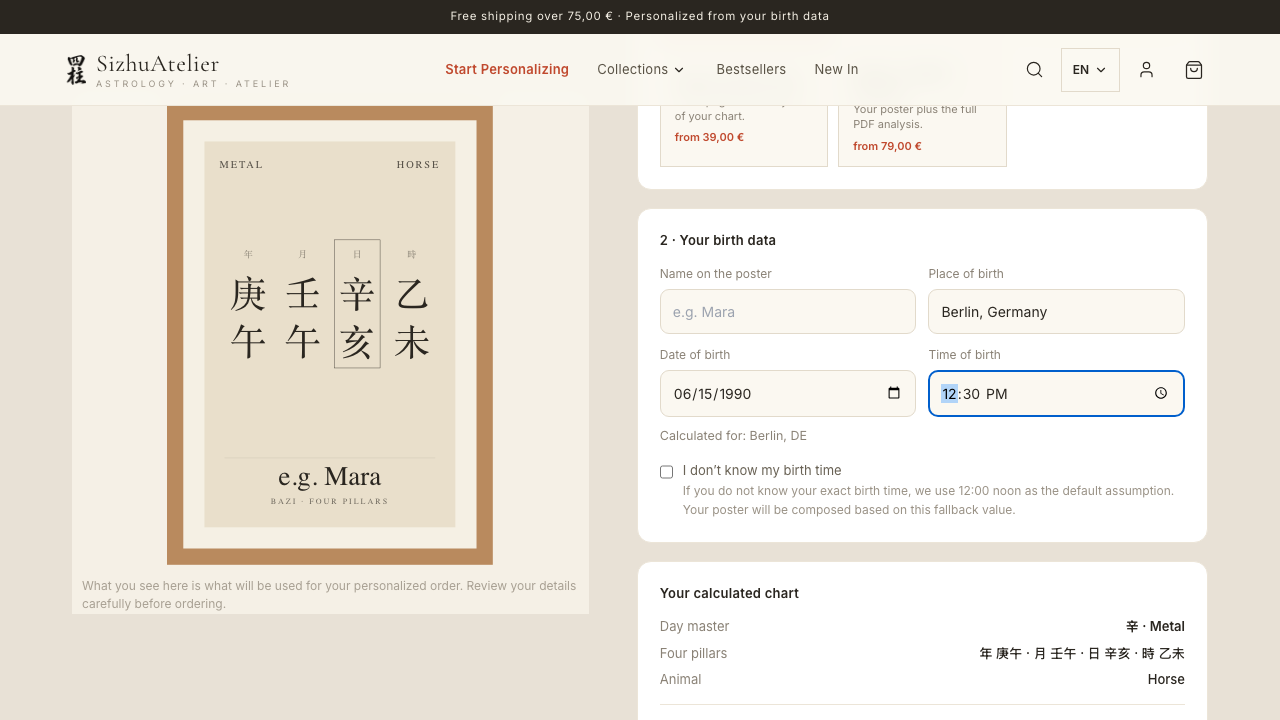
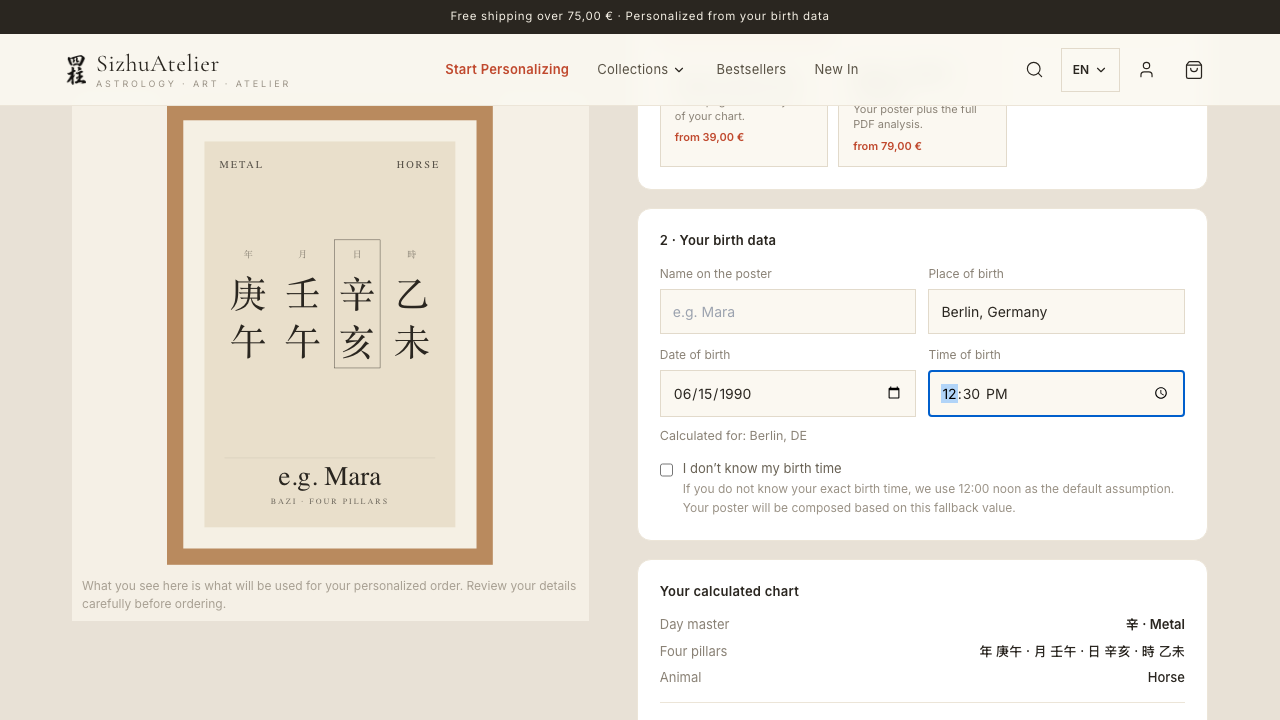
feat(personalize): eckige Inputs, Geburtszeit-Toggle je Person, Scrollbalken weg, Template-Beweis — Operator-Batch #6
- Eingabefelder eckig: globale CSS-Regel um input/select/textarea erweitert
- „Geburtszeit unbekannt" JE PERSON (Paar): geteilter Toggle aufgetrennt in
  unknownTimeA/B — eigene Checkbox + Noon-Hint unter jedem Personen-Block
  (testids unknown-time-a/b); Gate, Validierung, Summary, Partner-Review und
  Metadaten laufen je Person; Tests von Checkbox-Index auf testids gehärtet
- Poster-Vorschau ohne Scrollbalken: Container ohne max-height/overflow
  (SVG bleibt gedeckelt, Platz unter dem Poster für spätere Mockups);
  mobile-config-Test als Gegen-Assertion fortgeschrieben
- Design-Template-Beweis: zweites Einzel-Design ink-minimal (Datei + eine
  Registry-Zeile → Picker/Vorschau/Druck/TÜV automatisch). Fund behoben:
  Swatch-Mini-Vorschauen trugen dieselbe testid wie die Hauptvorschau —
  PosterSvg testId-Prop, Swatches nutzen design-swatch-preview-<id>

Beweise: node 81/81 · jsdom 624/624 · Playwright 8/8 mit Live-FuFirE

Changed region(s): [[0.5, 0.6417, 0.9062, 0.7333], [0.75, 0.8556, 0.9375, 0.9472], [0.5, 0.7944, 0.625, 0.9167]]

diff --git a/src/pages/Personalize.tsx b/src/pages/Personalize.tsx
@@ -53,7 +53,10 @@ export default function Personalize() {
   const [typeId, setTypeId] = useState<ProductTypeId>(initialType)
   const [a, setA] = useState<Person>(emptyPerson)
   const [b, setB] = useState<Person>(emptyPerson)
-  const [unknownTime, setUnknownTime] = useState(false)
+  // Operator 2026-07-14: „Geburtszeit unbekannt" ist JE PERSON einstellbar —
+  // beim Paar-Poster kennt vielleicht nur einer seine Zeit nicht.
+  const [unknownTimeA, setUnknownTimeA] = useState(false)
+  const [unknownTimeB, setUnknownTimeB] = useState(false)
   const [posterLang, setPosterLang] = useState<Lang>(lang)
   const [frameHex, setFrameHex] = useState(frames[0].hex)
   const [bgHex, setBgHex] = useState(backgrounds[0].hex)
@@ -101,9 +104,9 @@ export default function Personalize() {
   // erst, wenn Datum + Zeit (oder Zeit-unbekannt-Fallback) + AUFGELÖSTER Ort
   // vorliegen. Bis dahin zeigt das Poster ehrliche Striche — nie einen
   // Platzhalter, der wie eine echte Berechnung aussieht.
-  const btA = birthTimeMeta(a.time, unknownTime)
-  const baziInput = a.date && (unknownTime || a.time) && resolvedPlace
-    ? { date: a.date, time: btA.time, place: resolvedPlace, birthTimeUnknown: unknownTime }
+  const btA = birthTimeMeta(a.time, unknownTimeA)
+  const baziInput = a.date && (unknownTimeA || a.time) && resolvedPlace
+    ? { date: a.date, time: btA.time, place: resolvedPlace, birthTimeUnknown: unknownTimeA }
     : null
   // Birth-Chart-Poster (Operator 2026-07-14) = WESTLICHES Geburtshoroskop
   // über /api/western (FuFirE Swiss Ephemeris) — eigener Datenpfad + Design.
@@ -111,9 +114,9 @@ export default function Personalize() {
   const { chart, status: chartStatus } = useBaziChart(def.couple || isWestern ? null : baziInput)
   const { western, status: westernStatus } = useWesternChart(isWestern ? baziInput : null)
   // Paar-Poster: beide Personen vollständig → EINE /api/match-Berechnung.
-  const btB = birthTimeMeta(b.time, unknownTime)
-  const baziInputB = def.couple && b.date && (unknownTime || b.time) && placeB.place
-    ? { date: b.date, time: btB.time, place: placeB.place, birthTimeUnknown: unknownTime }
+  const btB = birthTimeMeta(b.time, unknownTimeB)
+  const baziInputB = def.couple && b.date && (unknownTimeB || b.time) && placeB.place
+    ? { date: b.date, time: btB.time, place: placeB.place, birthTimeUnknown: unknownTimeB }
     : null
   const { pair, status: pairStatus } = usePairChart(def.couple ? baziInput : null, baziInputB)
   const activeStatus = def.couple ? pairStatus : isWestern ? westernStatus : chartStatus
@@ -178,10 +181,10 @@ export default function Personalize() {
   const previewData = (def.couple ? livePairPoster : isWestern ? liveWesternPoster : livePoster) as PosterData
 
   /* ---- validation (REQ-009/010/016) ---- */
-  const personValid = (p: Person) => p.name.trim() !== '' && p.date !== '' && p.place.trim() !== '' && (unknownTime || p.time !== '')
-  const errA = { name: a.name.trim() === '', date: a.date === '', place: a.place.trim() === '', time: !unknownTime && a.time === '' }
-  const errB = { name: b.name.trim() === '', date: b.date === '', place: b.place.trim() === '', time: !unknownTime && b.time === '' }
-  const valid = personValid(a) && (!def.couple || personValid(b))
+  const personValid = (p: Person, unknown: boolean) => p.name.trim() !== '' && p.date !== '' && p.place.trim() !== '' && (unknown || p.time !== '')
+  const errA = { name: a.name.trim() === '', date: a.date === '', place: a.place.trim() === '', time: !unknownTimeA && a.time === '' }
+  const errB = { name: b.name.trim() === '', date: b.date === '', place: b.place.trim() === '', time: !unknownTimeB && b.time === '' }
+  const valid = personValid(a, unknownTimeA) && (!def.couple || personValid(b, unknownTimeB))
 
   const posterLangLabel = posterLang
   const designLabel = def.poster ? `${t(`options.backgrounds.${bgHex}`)} · ${t(`options.frames.${frameHex}`)}` : '—'
@@ -343,29 +346,36 @@ export default function Personalize() {
           {/* Step 2 — birth data */}
           <div id="personalize-birth" style={cardStyle}>
             <div style={headingStyle}>{def.couple ? t('personalize.birthHeadingA') : t('personalize.birthHeading')}</div>
-            <PersonFields person={a} setPerson={setA} unknownTime={unknownTime} err={errA} showErrors={showErrors} t={t} primary onCommitPlace={placeA.resolve} />
+            <PersonFields person={a} setPerson={setA} unknownTime={unknownTimeA} err={errA} showErrors={showErrors} t={t} primary onCommitPlace={placeA.resolve} />
             {/* Orts-Auflösungs-Status (Exaktheits-Transparenz): der Käufer sieht
                 IMMER, für welchen aufgelösten Ort gerechnet wird — nichts wird
                 still angenommen. Mehrdeutig → Kandidaten; nicht gefunden →
                 Nachbarort-Hinweis (astronomisch identisch). */}
             <PlaceResolutionStatus status={placeA.status} place={placeA.place} candidates={placeA.candidates} onPick={pickCandidateA} t={t} testPrefix="place" />
+            <label style={{ display: 'flex', alignItems: 'flex-start', gap: 10, marginTop: 14, cursor: 'pointer', fontSize: 13, color: C.textMuted }}>
+              <input data-testid="unknown-time-a" type="checkbox" checked={unknownTimeA} onChange={(e) => setUnknownTimeA(e.target.checked)} style={{ marginTop: 3, width: 16, height: 16, accentColor: C.accent }} />
+              <span>{t('personalize.unknownTime')}<br /><span style={{ fontSize: 12, color: C.textMuted3 }}>{t('personalize.unknownTimeHint')}</span></span>
+            </label>
+            {unknownTimeA && (
+              <div data-testid="noon-fallback-field-hint" role="note" style={{ marginTop: 12, background: C.accentSoftBg, color: C.accent, padding: '10px 12px', fontSize: 12.5, lineHeight: 1.5 }}>
+                {t('noonFallback.fieldHint')}
+              </div>
+            )}
             {def.couple && (
               <>
                 <div style={{ ...headingStyle, marginTop: 22 }}>{t('personalize.birthHeadingB')}</div>
-                <PersonFields person={b} setPerson={setB} unknownTime={unknownTime} err={errB} showErrors={showErrors} t={t} onCommitPlace={placeB.resolve} />
+                <PersonFields person={b} setPerson={setB} unknownTime={unknownTimeB} err={errB} showErrors={showErrors} t={t} onCommitPlace={placeB.resolve} />
                 <PlaceResolutionStatus status={placeB.status} place={placeB.place} candidates={placeB.candidates} onPick={pickCandidateB} t={t} testPrefix="place-b" />
-              </>
-            )}
-            <label style={{ display: 'flex', alignItems: 'flex-start', gap: 10, marginTop: 16, cursor: 'pointer', fontSize: 13, color: C.textMuted }}>
-              <input type="checkbox" checked={unknownTime} onChange={(e) => setUnknownTime(e.target.checked)} style={{ marginTop: 3, width: 16, height: 16, accentColor: C.accent }} />
+            <label style={{ display: 'flex', alignItems: 'flex-start', gap: 10, marginTop: 14, cursor: 'pointer', fontSize: 13, color: C.textMuted }}>
+              <input data-testid="unknown-time-b" type="checkbox" checked={unknownTimeB} onChange={(e) => setUnknownTimeB(e.target.checked)} style={{ marginTop: 3, width: 16, height: 16, accentColor: C.accent }} />
               <span>{t('personalize.unknownTime')}<br /><span style={{ fontSize: 12, color: C.textMuted3 }}>{t('personalize.unknownTimeHint')}</span></span>
             </label>
-            {/* REQ-018 AK-2 — disclosed noon fallback at the birth-time field (no
-                silent default). Shown only when the buyer marks the time unknown. */}
-            {unknownTime && (
-              <div data-testid="noon-fallback-field-hint" role="note" style={{ marginTop: 12, background: C.accentSoftBg, color: C.accent, borderRadius: 10, padding: '10px 12px', fontSize: 12.5, lineHeight: 1.5 }}>
+            {unknownTimeB && (
+              <div data-testid="noon-fallback-field-hint-b" role="note" style={{ marginTop: 12, background: C.accentSoftBg, color: C.accent, padding: '10px 12px', fontSize: 12.5, lineHeight: 1.5 }}>
                 {t('noonFallback.fieldHint')}
               </div>
+            )}
+              </>
             )}
           </div>
 
@@ -430,14 +440,14 @@ export default function Personalize() {
                   // dayMaster-Anzeige nutzt die GLYPHE aus pillars[2].stem —
                   // die API liefert relation.dayMasterA/B als Pinyin (Fund
                   // 2026-07-14: „Xin"/„Bing"), Poster + Review zeigen Glyphen.
-                  { key: 'a', person: a, bt: btA, place: resolvedPlace, chart: pair.a },
-                  { key: 'b', person: b, bt: btB, place: placeB.place, chart: pair.b },
-                ].map(({ key, person, bt, place, chart: pc }) => (
+                  { key: 'a', person: a, bt: btA, unknown: unknownTimeA, place: resolvedPlace, chart: pair.a },
+                  { key: 'b', person: b, bt: btB, unknown: unknownTimeB, place: placeB.place, chart: pair.b },
+                ].map(({ key, person, bt, unknown, place, chart: pc }) => (
                   <div key={key} data-testid={`partner-review-${key}`} style={{ border: `1px solid ${C.border}`, background: C.surfaceWarm, padding: 14 }}>
                     <div style={{ fontFamily: FONT_SERIF, fontSize: 17, color: C.ink, marginBottom: 8 }}>{person.name || '—'}</div>
                     <dl style={{ margin: 0, display: 'grid', gridTemplateColumns: 'auto 1fr', rowGap: 5, columnGap: 12, fontSize: 12.5 }}>
                       <SumRow label={t('configurator.date')} value={person.date || '—'} />
-                      <SumRow label={t('configurator.time')} value={unknownTime ? t('personalize.timeUnknown') : bt.timeDisplay || '—'} />
+                      <SumRow label={t('configurator.time')} value={unknown ? t('personalize.timeUnknown') : bt.timeDisplay || '—'} />
                       <SumRow label={t('configurator.place')} value={place ? `${place.resolvedName}, ${place.countryCode}` : person.place || '—'} />
                       <SumRow label={t('personalize.review.dayMaster')} value={`${pc.pillars[2]?.stem ?? '—'} · ${localizeElement(stemElement(pc.pillars[2]?.stem ?? ''), lang)}`} strong />
                       <SumRow label={t('personalize.review.animal')} value={localizeAnimal(pc.animal, lang)} />
@@ -517,7 +527,8 @@ export default function Personalize() {
                     const sel = d.id === designId
                     return (
                       <button key={d.id} data-testid="design-swatch" data-design={d.id} onClick={() => setDesignId(d.id)} style={{ position: 'relative', width: 84, border: `1px solid ${C.borderInput}`, background: C.surfaceInput, borderRadius: 10, padding: 6, cursor: 'pointer', fontFamily: FONT_SANS, fontSize: 11, color: C.ink }}>
-                        <PosterSvg data={previewData} designId={d.id} />
+                        {/* Swatch-Mini-Vorschau mit EIGENER testid — die Hauptvorschau (poster-svg-preview) bleibt eindeutig. */}
+                        <PosterSvg data={previewData} designId={d.id} testId={`design-swatch-preview-${d.id}`} />
                         <div style={{ marginTop: 4 }}>{d.name}</div>
                         {sel && <span style={{ position: 'absolute', inset: -2, border: `2px solid ${C.accent}`, borderRadius: 12, pointerEvents: 'none' }} />}
                       </button>
@@ -581,9 +592,9 @@ export default function Personalize() {
               <SumRow label={t('personalize.sumType')} value={t(`personalize.types.${typeId}.name`)} />
               <SumRow label={t('configurator.name')} value={a.name || '—'} />
               {def.couple && <SumRow label={t('personalize.partnerName')} value={b.name || '—'} />}
-              {def.couple && <SumRow label={t('personalize.partnerData')} value={`${b.date || '—'} · ${unknownTime ? t('personalize.timeUnknown') : b.time || '—'} · ${b.place || '—'}`} />}
+              {def.couple && <SumRow label={t('personalize.partnerData')} value={`${b.date || '—'} · ${unknownTimeB ? t('personalize.timeUnknown') : b.time || '—'} · ${b.place || '—'}`} />}
               <SumRow label={t('configurator.date')} value={a.date || '—'} />
-              <SumRow label={t('configurator.time')} value={unknownTime ? t('personalize.timeUnknown') : a.time || '—'} />
+              <SumRow label={t('configurator.time')} value={unknownTimeA ? t('personalize.timeUnknown') : a.time || '—'} />
               <SumRow label={t('configurator.place')} value={a.place || '—'} />
               <SumRow label={t('personalize.sumLang')} value={posterLangLabel} />
               {def.poster && <SumRow label={t('personalize.sumDesign')} value={designLabel} />}
@@ -591,7 +602,7 @@ export default function Personalize() {
               {COMMERCE_ENABLED && <SumRow label={t('personalize.sumPrice')} value={money(price)} strong />}
             </dl>
             {/* REQ-018 AK-3 — disclosed noon fallback in the personalization summary. */}
-            {unknownTime && (
+            {(unknownTimeA || (def.couple && unknownTimeB)) && (
               <div data-testid="noon-fallback-summary-notice" role="note" style={{ marginTop: 12, color: C.accent, fontSize: 12.5, lineHeight: 1.5 }}>
                 {t('noonFallback.summaryNotice')}
               </div>

diff --git a/tests/unit/delta-personalize-mobile-config.test.tsx b/tests/unit/delta-personalize-mobile-config.test.tsx
@@ -32,7 +32,6 @@ import { readFileSync } from 'node:fs'
 import { join } from 'node:path'
 import { render, screen, fireEvent, within } from '@testing-library/react'
 import { MemoryRouter } from 'react-router'
-import { readFileSync } from 'node:fs'
 import path from 'node:path'
 import { I18nProvider } from '../../src/i18n/I18nProvider'
 import { ShopStoreProvider } from '../../src/store/ShopStore'
@@ -91,7 +90,10 @@ describe('REQ-012 / AT-012-2 — preview carries a sticky + max-height rule', ()
     const rule = css.match(/\.personalize-preview\s*\{[^}]*\}/)?.[0] ?? ''
     expect(rule, '.personalize-preview rule exists in shipped index.css').not.toBe('')
     expect(rule).toMatch(/position:\s*sticky/i)
-    expect(rule).toMatch(/max-height:/i)
+    // Operator 2026-07-14: KEIN Scrollbalken mehr — der Container darf weder
+    // max-height noch overflow:auto tragen (das SVG selbst ist gedeckelt).
+    expect(rule).not.toMatch(/max-height:/i)
+    expect(rule).not.toMatch(/overflow:\s*auto/i)
   })
 
   it('AT-012-2 (source) — Personalize source declares the sticky + max-h contract', () => {

diff --git a/tests/unit/noon-fallback-render.test.tsx b/tests/unit/noon-fallback-render.test.tsx
@@ -53,7 +53,7 @@ describe('REQ-018 / AT-018-2 — noon-fallback disclosure renders at the birth-t
       expect(screen.queryByTestId('noon-fallback-field-hint')).toBeNull()
 
       // First checkbox on the page is the "I don't know my birth time" toggle.
-      const checkbox = screen.getAllByRole('checkbox')[0]
+      const checkbox = screen.getByTestId('unknown-time-a')
       fireEvent.click(checkbox)
 
       const hint = screen.getByTestId('noon-fallback-field-hint')
@@ -73,7 +73,7 @@ describe('REQ-018 / AT-018-3 — noon-fallback disclosure renders in the summary
       localStorage.setItem('sizhu_lang', lang)
       render(<Personalize />, { wrapper: Providers })
 
-      fireEvent.click(screen.getAllByRole('checkbox')[0])
+      fireEvent.click(screen.getByTestId('unknown-time-a'))
 
       const notice = screen.getByTestId('noon-fallback-summary-notice')
       expect(notice).toBeInTheDocument()

diff --git a/tests/unit/personalization-passthrough.test.tsx b/tests/unit/personalization-passthrough.test.tsx
@@ -337,9 +337,11 @@ describe('REQ-004 / AT-004-1 (couple) — person B noon-fallback provenance reac
     await screen.findByTestId('place-resolved-note')
     await screen.findByTestId('place-b-resolved-note')
 
-    // Mark the (shared) birth-time-unknown toggle → both charts take the disclosed
-    // noon fallback. The first checkbox is the unknown-time toggle.
-    fireEvent.click(screen.getAllByRole('checkbox')[0])
+    // Operator 2026-07-14: „Geburtszeit unbekannt" ist JE PERSON einstellbar —
+    // beide Toggles setzen, damit beide Charts den offengelegten Noon-Fallback
+    // nehmen (stabile testids statt Checkbox-Index).
+    fireEvent.click(screen.getByTestId('unknown-time-a'))
+    fireEvent.click(screen.getByTestId('unknown-time-b'))
 
     // Exaktes Paar-Chart abwarten (Debounce + /api/match-Mock) — erst dann
     // lässt das Ehrlichkeits-Gate den Kauf zu.

diff --git a/src/components/shop/PosterSvg.tsx b/src/components/shop/PosterSvg.tsx
@@ -12,11 +12,11 @@ import { getDesign } from '@/designs/registry.mjs'
  * (tests/unit/design-registry-tuev.test.ts) erzwingt das mit einem
  * Injektions-Fixture für jedes registrierte Design.
  */
-export default function PosterSvg({ data, designId }: { data: PosterData; designId: string }) {
+export default function PosterSvg({ data, designId, testId = 'poster-svg-preview' }: { data: PosterData; designId: string; testId?: string }) {
   const svg = useMemo(() => getDesign(designId).render(data, { widthMm: 420, heightMm: 594 }), [data, designId])
   return (
     <div
-      data-testid="poster-svg-preview"
+      data-testid={testId}
       data-design-id={designId}
       style={{ width: '100%', lineHeight: 0 }}
       dangerouslySetInnerHTML={{ __html: svg }}

diff --git a/src/index.css b/src/index.css
@@ -1892,7 +1892,10 @@
 button,
 button span,
 [role='button'],
-a.cta-square {
+a.cta-square,
+input,
+select,
+textarea {
   border-radius: 0 !important;
 }
 
@@ -1908,8 +1911,9 @@ a.cta-square {
   position: sticky;
   top: 112px;
   z-index: 5;
-  max-height: 36vh;
-  overflow: auto;
+  /* Kein max-height/overflow mehr (Operator 2026-07-14): der Scrollbalken
+     irritierte — das SVG selbst ist höhengedeckelt, der Container wächst mit.
+     Unter dem Poster ist Platz für spätere Mockups reserviert. */
   margin-bottom: 18px;
 }
 @media (min-width: 1024px) {
@@ -1921,7 +1925,6 @@ a.cta-square {
   }
   .personalize-preview {
     top: 96px;
-    max-height: 72vh;
     margin-bottom: 0;
   }
 }

diff --git a/docs/evidence/fufire-gelato/ledger.md b/docs/evidence/fufire-gelato/ledger.md
@@ -184,6 +184,27 @@ Beweisklassen: `[REAL-BOUNDARY-LIVE]` (live API, gespeicherte Response) ·
   4. Tests fortgeschrieben: personalize-exact-chart (EN→Horse/Metal, Review,
      DE-Umschaltung via poster-lang-picker), personalize-exact.spec (HORSE/
      METAL/FOUR PILLARS + Review-Assertions).
+- **Operator-Batch #6 2026-07-14 (Inputs eckig · getrennte Geburtszeit-Toggles
+  · Scrollbalken weg · Template-Beweis):**
+  1. *Eingabefelder eckig:* globale CSS-Regel erweitert (input/select/textarea
+     radius 0 !important — konsistent mit der Button-Regel).
+  2. *„Geburtszeit unbekannt" JE PERSON:* der geteilte Toggle ist in
+     unknownTimeA/B aufgetrennt (eigene Checkbox unter jedem Personen-Block,
+     testids unknown-time-a/b; eigener Noon-Hint je Person). Gate, Validierung,
+     Summary, Partner-Review und Metadaten (birthTimeUnknown/B) laufen je
+     Person; Druckweg war bereits getrennt. Tests von Checkbox-Index auf
+     testids gehärtet (passthrough, noon-fallback-render).
+  3. *Scrollbalken der Poster-Vorschau entfernt:* .personalize-preview ohne
+     max-height/overflow — das SVG selbst bleibt höhengedeckelt, der Container
+     wächst mit (Platz unter dem Poster für spätere Operator-Mockups).
+     Mobile-config-Test als Gegen-Assertion fortgeschrieben (kein
+     overflow:auto mehr erlaubt).
+  4. *Design-Template-Beweis:* zweites Einzel-Design `ink-minimal` (Datei +
+     EINE Registry-Zeile) — erschien automatisch im Wähler, läuft durch den
+     Design-TÜV, rendert Vorschau+Druck aus derselben Funktion. FUND dabei:
+     die Swatch-Mini-Vorschauen trugen dieselbe testid wie die Hauptvorschau
+     (mit nur einem Single-Design unsichtbar) — PosterSvg hat jetzt eine
+     testId-Prop, Swatches nutzen design-swatch-preview-<id>.
 - **Operator-Batch #5 2026-07-14 (Western Zodiac + Daymaster-Rahmen + Tier +
   ausführliche Erklärungen):**
   1. *API-Discovery:* FuFirE bietet `POST /v1/calculate/western` (OpenAPI-Spec
